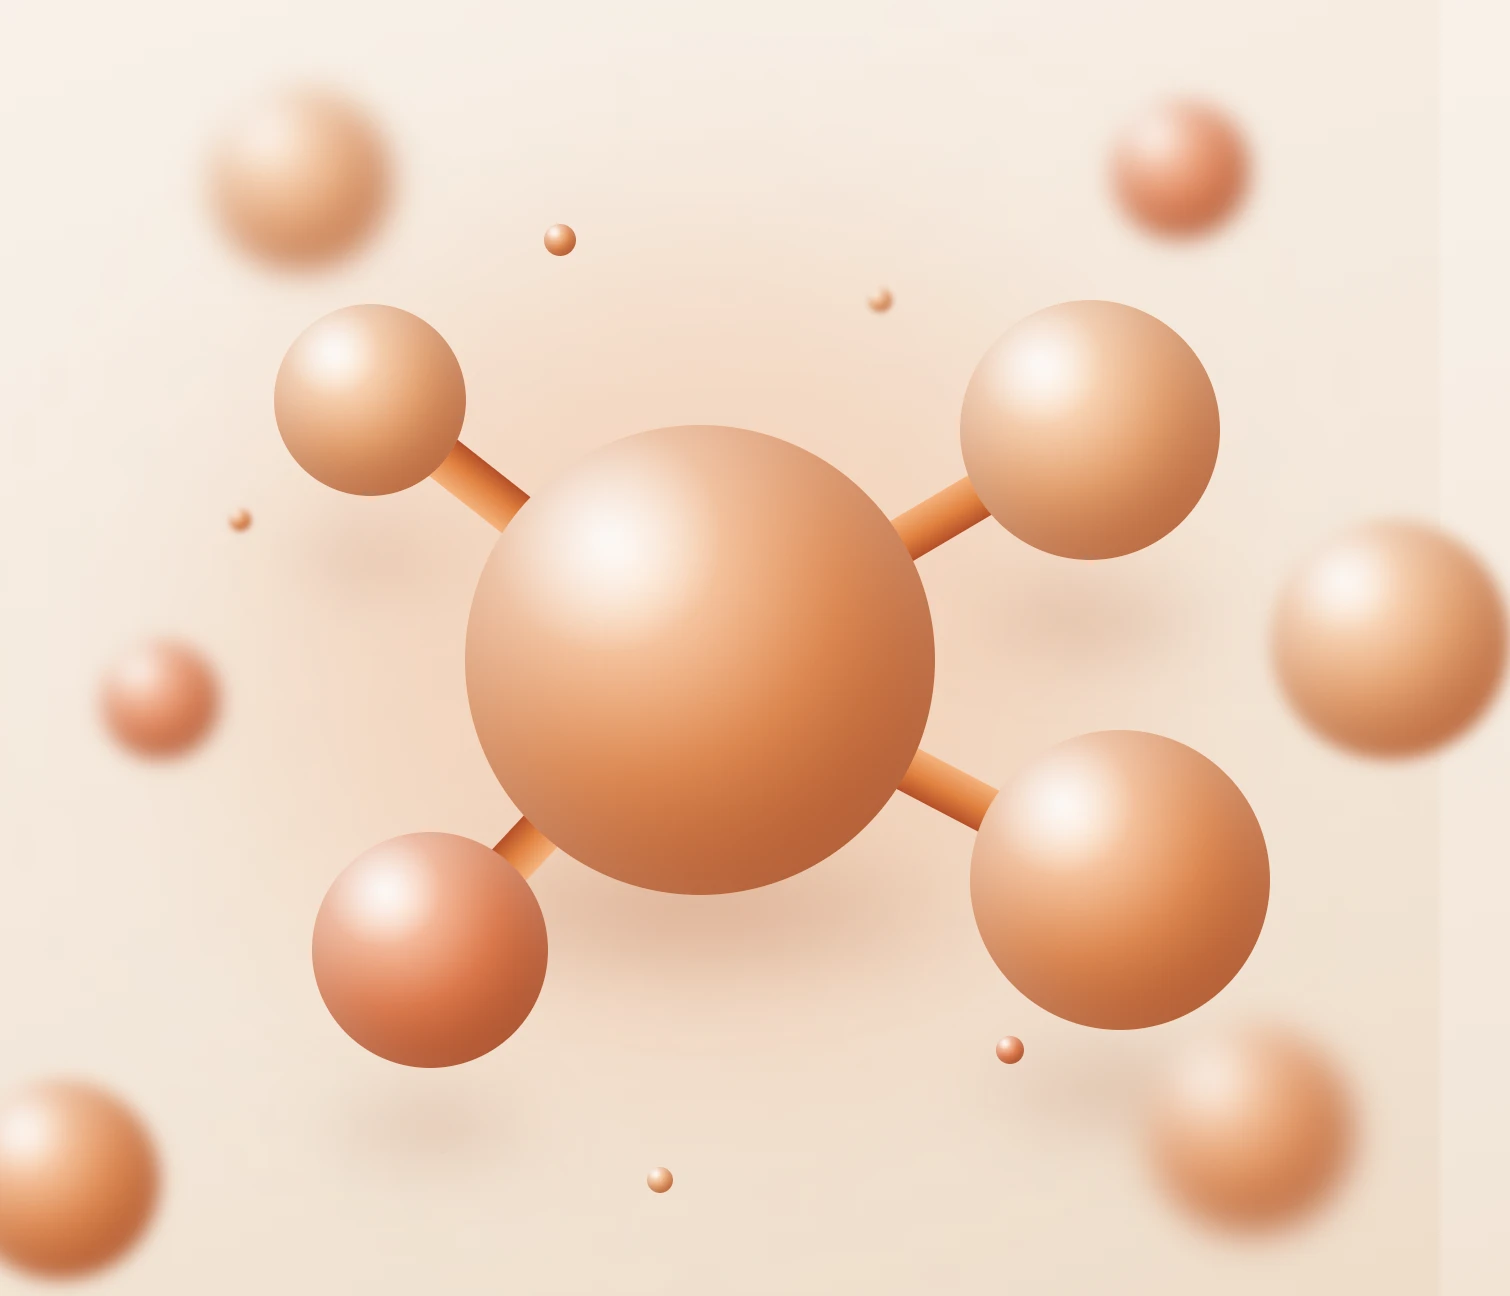
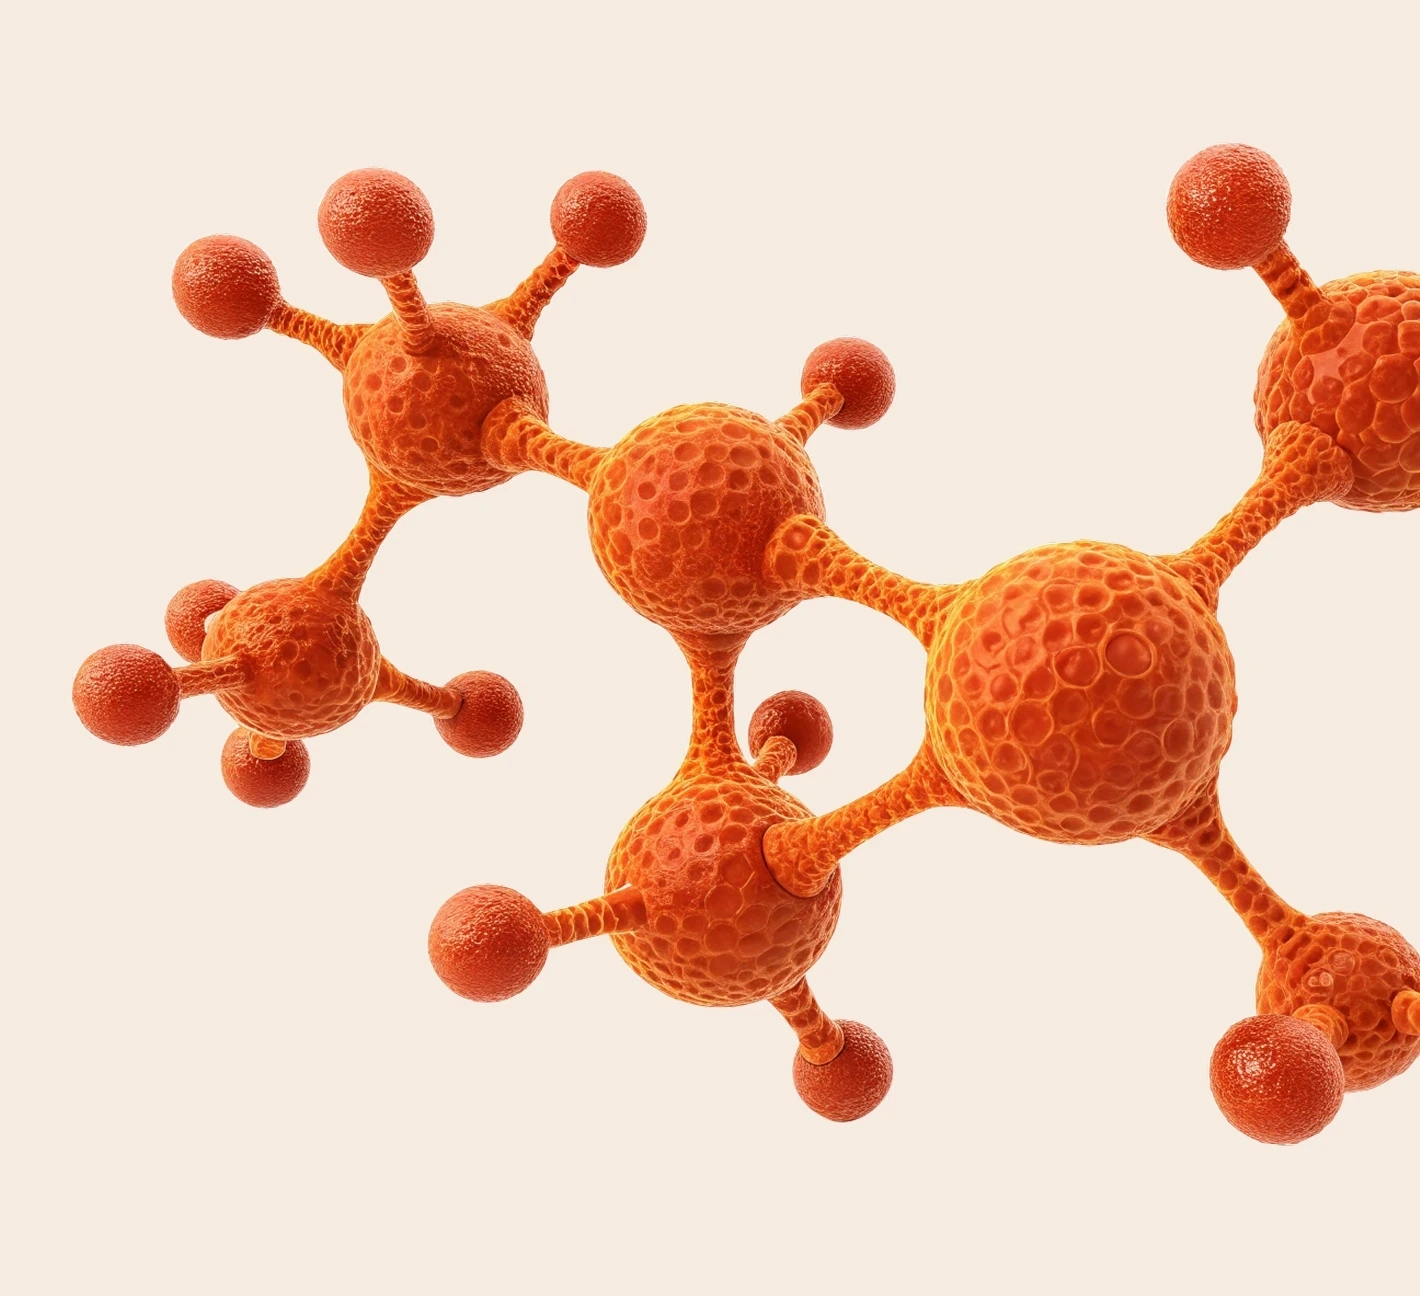
feat: оригинальные ассеты с Taptop-референса — ДНК-герой, молекула, карточки symp, нижняя ДНК, wave-иконка

diff --git a/styles.css b/styles.css
@@ -99,20 +99,26 @@ section { padding: 80px 0; }
 }
 .header-phone:hover { background: var(--accent); }
 
-/* ---------- Герой: full-bleed рендер, контент поверх ---------- */
+/* ---------- Герой: full-bleed рендер оригинала, контент под ДНК ---------- */
 .hero {
   position: relative;
-  min-height: max(680px, 92svh);
-  display: flex; align-items: center;
-  padding: 110px 0 80px;
+  min-height: clamp(680px, 75.35vw, 1085px);
+  padding: clamp(240px, 27vw, 390px) 0 80px;
   overflow: hidden;
+  /* подложка как у оригинала: персиково-розовые пятна сверху, белый низ */
+  background:
+    radial-gradient(1200px 760px at 8% -12%, rgba(240, 135, 106, .42), transparent 62%),
+    radial-gradient(1100px 700px at 92% -14%, rgba(217, 106, 139, .36), transparent 62%),
+    radial-gradient(950px 620px at 45% -16%, rgba(246, 178, 138, .38), transparent 65%),
+    #fff;
 }
 .hero-art {
   position: absolute; inset: 0;
   width: 100%; height: 100%;
   object-fit: cover; object-position: top center;
-  z-index: -1;
+  z-index: 0;
 }
+.hero .container { position: relative; z-index: 1; }
 .hero-badge {
   display: inline-flex; align-items: center; gap: 8px;
   font-size: .85rem;
@@ -180,6 +186,8 @@ section { padding: 80px 0; }
 .prognosis-card {
   border-radius: var(--r-card); padding: 30px;
   background: var(--card);
+  background-size: cover; background-position: center;
+  min-height: 420px;
   display: flex; flex-direction: column;
   transition: transform .3s, box-shadow .3s;
 }
@@ -237,13 +245,8 @@ section { padding: 80px 0; }
 .cta-sub { max-width: 440px; margin: 16px auto 32px; color: var(--muted); }
 .cta-phones { display: flex; gap: 14px; justify-content: center; flex-wrap: wrap; }
 .cta-phones .btn { font-size: 1.1rem; padding: 15px 26px; }
-.cta-bottom-art {
-  width: 100%; margin-top: -140px;
-  transform: scaleY(-1);
-  -webkit-mask-image: linear-gradient(to top, black 55%, transparent 100%);
-  mask-image: linear-gradient(to top, black 55%, transparent 100%);
-  pointer-events: none;
-}
+.cta-bottom-art { width: 100%; margin-top: 48px; pointer-events: none; }
+.cta-wave { width: 96px; margin: 0 auto 24px; }
 
 /* ---------- Футер-карточка ---------- */
 .site-footer { padding: 0 30px 30px; }
@@ -277,7 +280,7 @@ section { padding: 80px 0; }
   .stats-section { padding: 0 0 56px; }
   .container { padding: 0 16px; }
   .section-title { margin-bottom: 40px; }
-  .hero { min-height: 100svh; padding: 100px 0 56px; }
+  .hero { min-height: 100svh; padding: 30svh 0 56px; }
   .stats-grid { grid-template-columns: 1fr; gap: 24px; }
   .prognosis-grid, .complications-grid, .aphasia-grid { grid-template-columns: 1fr; }
   .complication-card.aphasia { grid-column: auto; }

diff --git a/index.html b/index.html
@@ -44,7 +44,10 @@
 
     <!-- ===== ГЕРОЙ ===== -->
     <section class="hero" aria-labelledby="hero-heading">
-      <img class="hero-art" src="assets/hero.webp" alt="" aria-hidden="true" />
+      <picture>
+        <source media="(max-width: 720px)" srcset="assets/hero-mob.webp" />
+        <img class="hero-art" src="assets/hero.webp" alt="" aria-hidden="true" />
+      </picture>
       <div class="container">
         <div class="hero-badge" aria-hidden="true">
           <svg width="12" height="12" viewBox="0 0 24 24" fill="none" stroke="currentColor" stroke-width="2.5"
@@ -174,7 +177,7 @@
         </h2>
 
         <div class="prognosis-grid reveal" role="list">
-          <article class="prognosis-card light" role="listitem">
+          <article class="prognosis-card light" role="listitem" style="background-image:url(assets/symp06.webp)">
             <div class="severity-badge">Лёгкий инсульт</div>
             <h3>Высокий потенциал восстановления</h3>
             <div class="prognosis-features">
@@ -185,7 +188,7 @@
             <div class="rehab-duration">Срок реабилитации: <strong>от 1 до 4 недель</strong></div>
           </article>
 
-          <article class="prognosis-card medium" role="listitem">
+          <article class="prognosis-card medium" role="listitem" style="background-image:url(assets/symp05.webp)">
             <div class="severity-badge">Средне-тяжёлый</div>
             <h3>Специализированное обучение</h3>
             <div class="prognosis-features">
@@ -196,7 +199,7 @@
             <div class="rehab-duration">Срок реабилитации: <strong>от 1 до 3 месяцев</strong></div>
           </article>
 
-          <article class="prognosis-card heavy" role="listitem">
+          <article class="prognosis-card heavy" role="listitem" style="background-image:url(assets/symp04.webp)">
             <div class="severity-badge">Тяжёлый инсульт</div>
             <h3>Интенсивное сопровождение</h3>
             <div class="prognosis-features">
@@ -323,6 +326,7 @@
     <section class="cta-section" aria-labelledby="cta-heading">
       <div class="container">
         <div class="cta-card reveal">
+          <img class="cta-wave" src="assets/wave.svg" alt="" aria-hidden="true" />
           <h2 id="cta-heading">Не теряйте время — позвоните сейчас</h2>
           <p class="cta-sub">
             Врач-реабилитолог Тимофеев Николай Устинович проведёт консультацию и составит индивидуальный план
@@ -336,7 +340,7 @@
           </div>
         </div>
       </div>
-      <img class="cta-bottom-art" src="assets/hero.webp" alt="" aria-hidden="true" />
+      <img class="cta-bottom-art" src="assets/bottom.webp" alt="" aria-hidden="true" />
     </section>
 
   </main>